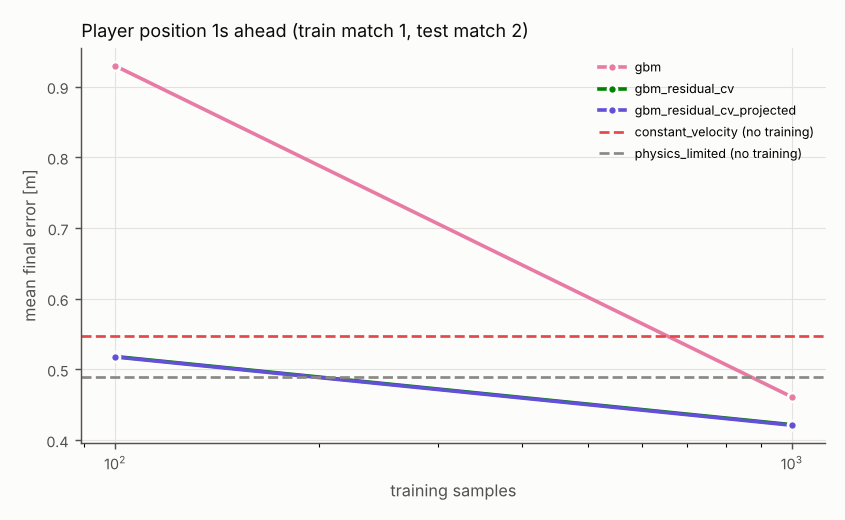
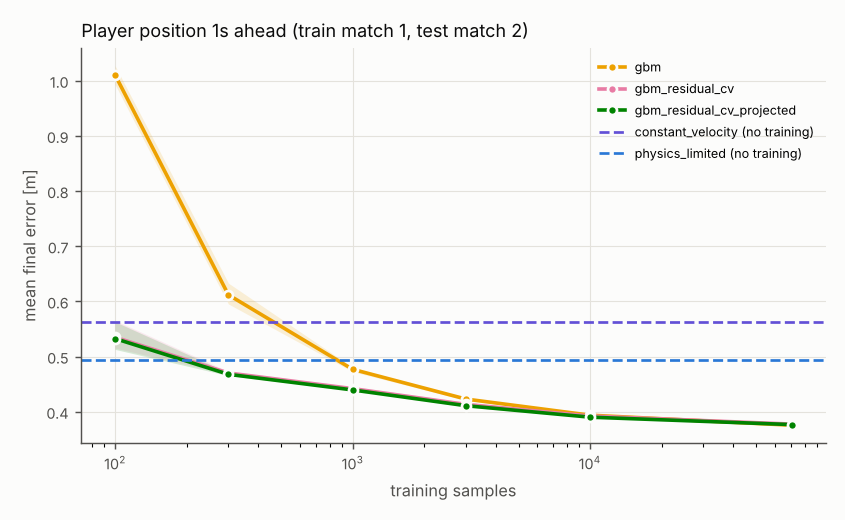
Football: plausibility-gated metabolic power, guide draft, xG figures
Claude-Session: https://claude.ai/code/session_017LPNkR1VkxmVT6KHABQrFe

diff --git a/pinneapple_systems/sports/football/kin_study.py b/pinneapple_systems/sports/football/kin_study.py
@@ -88,7 +88,8 @@ def synthetic_smoothing(noise=(0.05, 0.2), fps=(25.0, 10.0), *, n: int = 20, see
 
 def match_load(match, *, team: str = "Home", max_frames: int | None = None) -> dict[str, Any]:
     """Metabolic power of one team of a Metrica match per player and per method, and plausibility per method
-    (the first ``max_frames`` frames only, if given)."""
+    (the first ``max_frames`` frames only, if given). ``gated_mean_mp_per_player`` drops the samples above the
+    human limits of :mod:`.kinematics` (tracking jumps), which otherwise dominate a match mean."""
     P = match.players[team][:max_frames]
     dt = 1 / match.fps
     fit = K.fit_noise(P[:15000], dt, sigmas=(0.002, 0.005, 0.01, 0.02), jerks=(10.0, 20.0, 40.0, 80.0))
@@ -98,6 +99,10 @@ def match_load(match, *, team: str = "Home", max_frames: int | None = None) -> d
     for name, r in methods.items():
         mp = _mp(r["vel"], r["acc"])
         sp = np.linalg.norm(r["vel"], axis=-1)
+        ac = np.linalg.norm(r["acc"], axis=-1)
+        plausible = (sp <= K.V_MAX) & (ac <= K.A_MAX)
+        gated = np.where(plausible, mp, np.nan)                # physically impossible samples are tracking errors
+        okg = np.isfinite(gated)
         on = np.isfinite(mp)
         enough = min(25 * 600, len(P) // 2)
         mean_mp = np.array([np.nanmean(mp[on[:, j], j]) if on[:, j].sum() > enough else np.nan
@@ -105,7 +110,12 @@ def match_load(match, *, team: str = "Home", max_frames: int | None = None) -> d
         med_mp = np.array([np.nanmedian(mp[on[:, j], j]) if on[:, j].sum() > enough else np.nan
                            for j in range(P.shape[1])])
         hs = np.array([np.nansum((sp[:, j] > 5.5) * sp[:, j]) * dt for j in range(P.shape[1])])
-        out["methods"][name] = {"mean_mp_per_player": mean_mp.tolist(), "median_mp_per_player": med_mp.tolist(), "hs_distance_per_player": hs.tolist(),
+        gated_mp = np.array([np.nanmean(gated[okg[:, j], j]) if okg[:, j].sum() > enough else np.nan
+                             for j in range(P.shape[1])])
+        out["methods"][name] = {"mean_mp_per_player": mean_mp.tolist(), "median_mp_per_player": med_mp.tolist(),
+                                "gated_mean_mp_per_player": gated_mp.tolist(),
+                                "implausible_share": float(1 - np.sum(okg) / max(np.sum(on), 1)),
+                                "hs_distance_per_player": hs.tolist(),
                                 **K.plausibility(r["vel"], r["acc"]),
                                 "mp_above_20_share": float(np.nanmean(mp[on] > 20))}
     return out

diff --git a/examples/sports/05_verdict.py b/examples/sports/05_verdict.py
@@ -98,10 +98,16 @@ def verdict_rows(ball, pc, kin, xg) -> list[dict]:
         rows.append({"case": "Metabolic power on Metrica (real, no ground truth)",
                      "physics": "equivalent-slope model on Kalman-RTS states",
                      "baseline": "the same on raw differences / Savitzky-Golay",
-                     "measured": f"noise fitted {ml['noise_fit']['sigma_pos'] * 100:.1f} cm; team mean "
-                                 + ", ".join(f"{k} {v['mean_mp_team']:.2f} W/kg" for k, v in ml["methods"].items()),
-                     "verdict": "processing uncertainty is reported, not a win: the provider data are already "
-                                "smooth, so the choice of filter moves the load only a few per cent"})
+                     "measured": f"noise fitted {ml['noise_fit']['sigma_pos'] * 100:.1f} cm; team mean metabolic "
+                                 "power, all samples: "
+                                 + ", ".join(f"{k} {v['mean_mp_team']:.1f}" for k, v in ml["methods"].items())
+                                 + " W/kg; physically plausible samples only: "
+                                 + ", ".join(f"{k} {v['gated_mean_mp_team']:.1f}" for k, v in ml["methods"].items())
+                                 + " W/kg",
+                     "verdict": "physics HELPED as a gate, not as a smoother: a few tracking jumps (impossible speed "
+                                "or acceleration) dominate the match mean whatever the filter; removing them with "
+                                "human limits makes the methods agree. The provider data are already smooth "
+                                "(noise ~mm), so the smoother itself changes little"})
         for H in ("1s", "2s"):
             rr = kin["prediction"][H]["rows"]
             cv = next(r for r in rr if r["model"] == "constant_velocity")

diff --git a/examples/sports/03_player_kinematics.py b/examples/sports/03_player_kinematics.py
@@ -41,6 +41,7 @@ def main(smoke: bool = False) -> dict:
         res["match_load"]["methods"][name]["mean_mp_team"] = float(np.nanmean(mp))
         res["match_load"]["methods"][name]["mean_mp_per_player"] = mp.tolist()
         res["match_load"]["methods"][name]["median_mp_team"] = float(np.nanmean(r["median_mp_per_player"]))
+        res["match_load"]["methods"][name]["gated_mean_mp_team"] = float(np.nanmean(r["gated_mean_mp_per_player"]))
     ref = np.array(load["methods"]["kalman_rts"]["mean_mp_per_player"], float)
     for name, r in load["methods"].items():
         mp = np.array(r["mean_mp_per_player"], float)

diff --git a/docs/guides/football_physics.md b/docs/guides/football_physics.md
@@ -1,0 +1,191 @@
+# Football: where physics helps on public tracking data
+
+This guide asks one question about football: **where does a physics-informed model beat, or usefully add to,
+pure machine learning or standard analytics, on public data?** It also says plainly where physics does not help.
+The cases cover ball flight, pass completion (pitch control), player kinematics and load, and expected goals.
+Each one compares models on held-out data, with the same training data for every model.
+
+Everything comes from [`examples/sports`](../../examples/sports/): scripts `01`-`04` run the studies and
+[`05_verdict.py`](../../examples/sports/05_verdict.py) writes the verdict table below
+(`examples/sports/results/verdict.md`). The library is `pinneapple_systems.sports.football`. The tests are in
+`tests/test_football_physics.py`.
+
+## Data (downloaded at run time, never committed)
+
+| Source | What | Licence / terms | Used for |
+|---|---|---|---|
+| [SkillCorner open data](https://github.com/SkillCorner/opendata) | 20 A-League 2024/25 matches, broadcast tracking at 10 Hz, ball with an estimated height `z` | MIT; credit SkillCorner | ball flight |
+| [Metrica Sports sample data](https://github.com/metrica-sports/sample-data) | 2 anonymised matches, 25 Hz tracking of players and ball (2-D), synchronised events | free sample; acknowledge Metrica Sports | pitch control, kinematics |
+| [StatsBomb open data](https://github.com/statsbomb/open-data) | events + 360 freeze frames: World Cup 2022, Euro 2020, Euro 2024 (3 859 shots) | StatsBomb user agreement (non-commercial); "Data: StatsBomb" | expected goals |
+
+`pinneapple_systems.sports.football.data` downloads each file once into `~/.cache/pinneapple/datasets/football`
+(or `$PINNEAPPLE_DATA_CACHE`) and records its SHA-256 in `manifest.json`. Only small derived results are
+committed. The Wyscout / Pappalardo et al. (2019) event data set on figshare was not reachable from the build
+environment (the proxy refused figshare.com), so it is not used.
+
+## Verdict
+
+<!-- copied from examples/sports/results/verdict.md -->
+VERDICT_TABLE
+
+## 1. Ball flight: drag, Magnus, gravity
+
+**Model.** The ball centre follows `dv/dt = -g e_z - k_d |v| v + |v| (B x v)`, where `k_d = rho A C_D / (2 m)`
+and `B` is the Magnus vector (`rho A C_L / (2 m)` times the spin axis). The ball constants follow the Laws of the
+Game. `ball.simulate` integrates it with RK4, batched over parameter sets. `ball.fit_flight` solves the inverse
+problem. It fits launch position and velocity, plus `C_D`, `B` or `g` depending on the model, by robust least
+squares with a batched finite-difference Jacobian. Standard errors come from the Gauss-Newton (Laplace)
+covariance.
+
+**Method check (simulated kicks, known truth).** Kicks are simulated at 15-30 m/s with a drag-crisis `C_D(Re)`
+and random spin, then observed at 10 Hz with 0.2 m noise. Fitting them back gives a mean `C_D` error of
+BALL_CD_MAE, and the 95 % intervals cover the true `C_D` in BALL_CD_COV of flights. Gravity and vertical Magnus
+lift are confounded: a drag fit with free `g` and no spin term misses `g` by about 0.8 m/s² on spinning balls
+(coverage 0.6). This matters in the audit below.
+
+**2-D tracking makes the problem ill-posed.** The Cramer-Rao bound for one lofted pass (22 m/s, 25°, 25 Hz,
+0.2 m noise) gives a standard deviation of the vertical launch speed of BALL_VZ3D m/s with the height observed and
+BALL_VZ2D m/s without it. The Fisher matrix is numerically singular (`ball_study.identifiability`). Without
+height, elevation, drag and spin trade off against each other. Metrica-type 2-D ball tracks therefore cannot give
+aerodynamic coefficients. The only physics that still identifies anything in 2-D is the ground roll. Fitted to
+the event durations of Metrica passes (`pitch_control.fit_ball_travel`), the rolling deceleration comes out
+near zero: the durations end at reception and include lofted passes. So the travel-time model reduces to a kick
+speed that grows with distance (about 9 m/s + 0.16-0.18 m/s per metre), against 11.4-11.7 m/s at constant speed
+(RMSE 0.43-0.47 s against 0.52-0.53 s).
+
+**Gravity audit of broadcast tracking.** Gravity is fitted freely to every aerial flight extracted from the 20
+SkillCorner matches (`ball_study.gravity_audit`). On real flights the fit should return about 9.81 m/s². The
+fitted values are in the verdict table and in `figures/ball_gravity_audit.png`. The deficit appears in every
+launch-speed band, including the slowest flights, where backspin lift, which grows with the square of the speed,
+cannot explain it. The ball height in this data set is therefore an estimate that is not physically consistent.
+Drag and lift coefficients fitted to it would be wrong, so this guide does not compare them with wind-tunnel
+values (Asai et al. 2007, Sports Eng. 10:101, critical Re about 2.2-3.0e5; Hong & Asai 2014, Sci. Rep. 4:5068).
+`ball.DRAG_CRISIS_BAND` holds that band for data that pass the check.
+
+**Held-out prediction.** For each flight of the test matches, the first half is observed and the rest is
+predicted (`ball_study.holdout_prediction`). The models are:
+
+- quadratic extrapolation per axis (data only);
+- vacuum and drag ballistics with g = 9.81 m/s²;
+- drag with free `g`;
+- boosted trees trained on 14 other matches;
+- a hybrid: the same trees with the free-`g` physics prediction as an extra input.
+
+![landing errors](../../examples/sports/figures/ball_holdout_landing.png)
+![flights](../../examples/sports/figures/ball_flights_3d.png)
+
+## 2. Pass completion: pitch control against data-only classifiers
+
+**Model** (`pitch_control`, reimplemented from Spearman 2018, *Beyond Expected Goals*, MIT Sloan SAC). Each
+player reaches the target point at a logistic-distributed time around his time to intercept. Once there, he
+controls the ball at rate `lambda`. The control probabilities of the two teams follow the integro-differential
+equation of the paper. Player states come from a causal Kalman filter. Two time-to-intercept models are
+available: reaction time then straight running at `v_max`, or acceleration-limited motion from the current
+velocity. Five physical parameters are fitted by maximum likelihood on the pass outcomes of one match.
+
+**Comparison** (`pc_study`, ~2 000 passes: 940 in match 1 and 1 097 in match 2; label 1 = completed, 0 =
+intercepted). Each model is fitted on one match and scored on the other. The data-only models are logistic
+regression and boosted trees on 15 geometric features: distances of the nearest attackers and defenders to the
+target and to the pass line, counts near the target, positions and pass length.
+
+| Test match | Unfitted pitch control | Fitted pitch control | Logistic | Boosted trees | Hybrid |
+|---|---|---|---|---|---|
+| 2 (fit on 1) | 0.1925 | **0.1503** | 0.1737 | 0.2313 | 0.1600 |
+| 1 (fit on 2) | 0.2034 | 0.1927 | **0.1891** | 0.2512 | 0.1938 |
+
+Test log-loss. Fitted pitch control minus logistic: -0.023 [-0.048, +0.000] and +0.004 [-0.027, +0.037]
+(paired bootstrap 95 %). Fitted pitch control is the best-calibrated model (ECE 0.027 and 0.011, against 0.014
+and 0.019 for logistic).
+
+![learning curve](../../examples/sports/figures/pc_learning_curve.png)
+
+The learning curve shows where physics helps. The **unfitted** model (0 training passes, log-loss 0.1925) beats
+every data-only model trained on up to about 400 passes. With 100 training passes, fitted pitch control scores
+0.162 against 0.218 for logistic regression and 0.253 for boosted trees. Over the whole data the gap closes and
+is no longer significant. The acceleration-limited intercept did **not** help (0.251 / 0.233): its parameters
+drift to implausible values (`v_max` up to 78 m/s). The reaction-time form is the better physical prior for this
+data.
+
+![pitch control](../../examples/sports/figures/pc_map_intercepted_pass.png)
+
+## 3. Player kinematics and load
+
+**Smoothing with known truth** (`kin_study.synthetic_smoothing`). The comparison uses simulated runs with
+bounded acceleration and speed, observed at 25 or 10 Hz with 5 or 20 cm of noise. The constant-acceleration
+Kalman-RTS smoother takes its noise level from maximum marginal likelihood (`kinematics.fit_noise`). It has the
+lowest speed, acceleration and metabolic-power error in every case, and its 95 % velocity intervals cover the
+truth 96-97 % of the time. Raw differences inflate metabolic power by a factor of 4 to 25. A 0.5 s Savitzky-Golay
+window at 10 Hz with 20 cm of noise is almost as bad. The caveat: the simulated motion is close to the filter's
+own model, so this is a best case for the filter. The comparison baseline is the best Savitzky-Golay window, chosen
+using the truth.
+
+![smoothing](../../examples/sports/figures/kin_smoothing_mp_error.png)
+
+**Metrica, no ground truth** (`kin_study.match_load`). The noise fitted on the data is about half a centimetre:
+the provider already smooths the positions. The metabolic power uses the equivalent-slope model (di Prampero et
+al. 2005; Osgnach et al. 2010) with the slope cost of Minetti et al. (2002). A few tracking jumps, with speeds or
+accelerations no human reaches, dominate the match mean whatever the filter. Gating them with the limits in
+`kinematics.V_MAX` and `A_MAX` brings the methods into agreement (verdict table).
+
+**Trajectory prediction** (`kin_study.prediction_study`; train match 1, test match 2, 66 680 test samples). The
+prediction is every outfield player's position 1 s and 2 s ahead.
+
+![1 s](../../examples/sports/figures/kin_prediction_1s.png)
+![2 s](../../examples/sports/figures/kin_prediction_2s.png)
+
+The physics prior is the constant-velocity residual: the trees learn only the correction. With 100 training
+samples it halves the error of plain trees at 1 s (0.54 m against 1.01 m). With 70 000 samples the two converge
+(0.378 m against 0.376 m). The decaying-acceleration model needs no training, and it beats plain trees trained
+on fewer than about 1 000 samples (0.49 m at 1 s, 1.79 m at 2 s). Trees almost never predict an unreachable
+position (0.05 %), so projecting onto the reachable set changes the error by under 1 %.
+
+## 4. Expected goals: physics features do not help here
+
+`xg.physics_features` builds three features from the StatsBomb 360 freeze frame:
+
+- the share of the goal mouth that no opponent can intercept in time;
+- the keeper's best time margin;
+- the number of blockers.
+
+The shot speed and the keeper's speed are chosen by grouped cross-validation on the training shots
+(25 m/s, 7 m/s). The models train on the World Cup 2022 and Euro 2020 (2 590 shots, 269 goals) and are tested on
+Euro 2024 (1 269 shots, 97 goals).
+
+| Model | Log-loss | Brier | AUC | ECE |
+|---|---|---|---|---|
+| standard logistic (distance, angle, body part, context) | 0.2413 | 0.0662 | 0.755 | 0.027 |
+| + physics features | 0.2429 | 0.0662 | 0.746 | 0.025 |
+| + data-only freeze-frame geometry | 0.2389 | 0.0656 | 0.764 | 0.021 |
+| physics features + distance and angle only | 0.2538 | 0.0682 | 0.711 | 0.027 |
+| boosted trees, standard features | 0.2603 | 0.0690 | 0.700 | 0.041 |
+| StatsBomb xG (external reference, proprietary) | 0.2267 | 0.0622 | 0.790 | 0.019 |
+
+Adding the physics features changes the log-loss by +0.0017 [-0.0019, +0.0052]: no gain, and no gain at any
+training size either (`figures/xg_learning_curve.png`). Data-only freeze-frame geometry does no better than noise
+(-0.0023 [-0.0099, +0.0049]). With about 2 600 shots, the shot's position explains what the freeze frame adds.
+This case is dropped. StatsBomb's own model does better, but it is trained on far more shots and uses
+information these features do not have.
+
+## What was not done
+
+- No OpenFOAM run of a football: with the drag check failing on the data, a CFD `C_D(Re)` would have had
+  nothing to be compared against.
+- No PINN for the ball-flight inverse problem. The ODE has at most 10 parameters, and direct shooting with
+  Gauss-Newton gives the answer and its covariance in a fraction of a second. A PINN would only add training
+  noise.
+- No GPS or VO2 ground truth for metabolic power: on real data the guide reports processing uncertainty, not
+  accuracy.
+
+## Run it
+
+```bash
+pip install -e ".[sports]"
+python examples/sports/01_ball_flight.py      # ~1.8 GB of SkillCorner tracking, about an hour on 3 cores
+python examples/sports/02_pitch_control.py    # Metrica, ~10 min
+python examples/sports/03_player_kinematics.py
+python examples/sports/04_expected_goals.py   # StatsBomb, ~3 GB of event files read once
+python examples/sports/05_verdict.py          # verdict table and experiment manifest
+```
+
+Each script also accepts `--smoke` (small sizes). The Flow Studio nodes are `football.ball_flight_inverse` (no
+download), `football.tracking_smoothing` (no download) and `football.pass_pitch_control` (Metrica).
